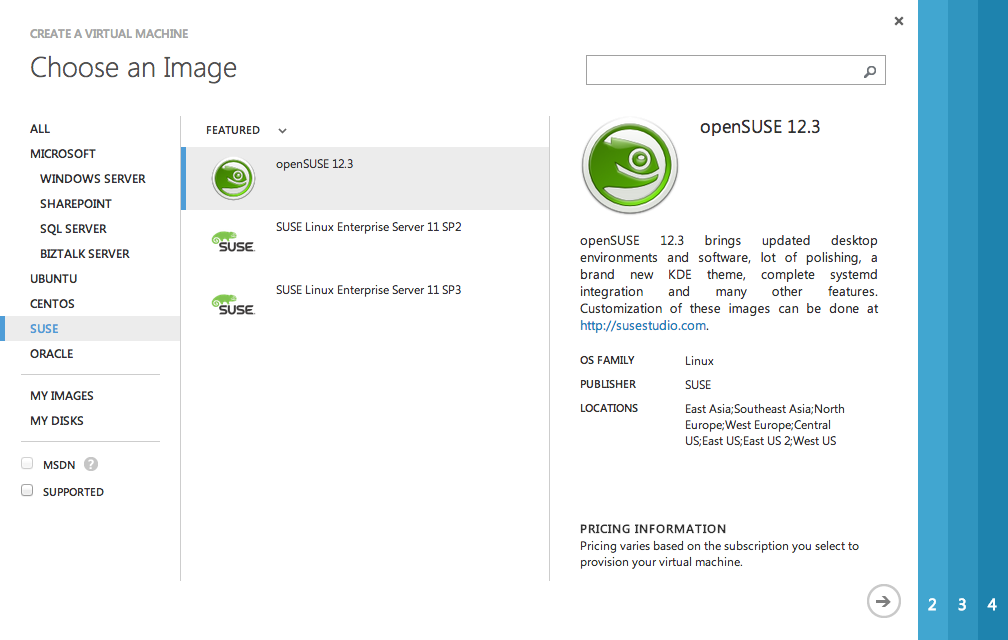
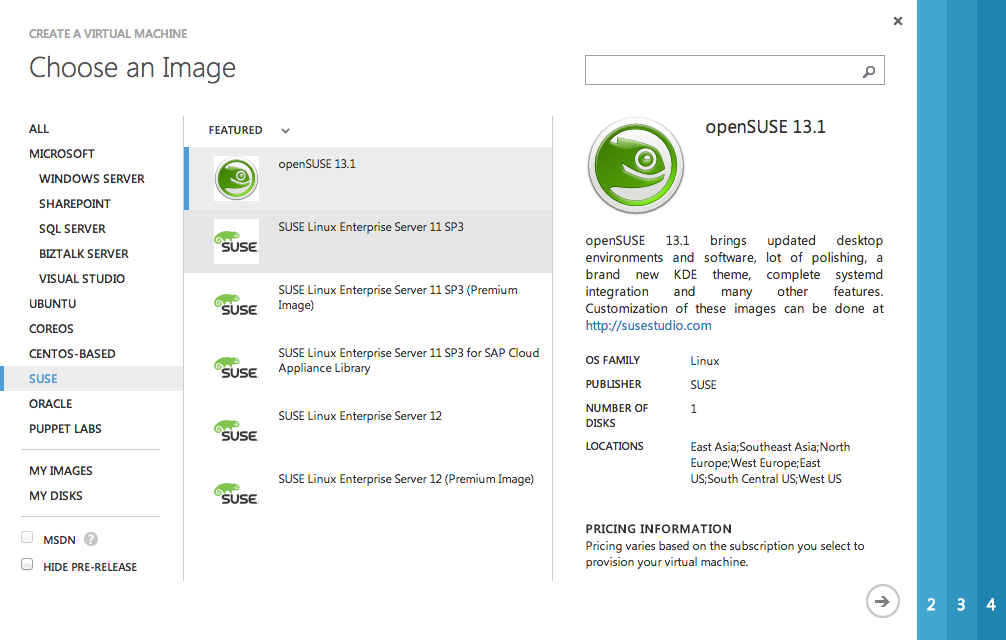
P1 updates

diff --git a/PracticalOne.md b/PracticalOne.md
@@ -17,8 +17,6 @@ In this practical session, you will:
 
 - Familiarise yourself with the Windows Azure management portal
 - Create Linux virtual machines (VMs) in Windows Azure
-- Install and configure an Apache web server with MySQL 
-- Install and configure Drupal CMS
 
 <a name="Prerequisites" />
 ### Prerequisites ###
@@ -34,10 +32,6 @@ In this practical session, you will:
 This practical session includes the following exercises:
 
 1. [Creating a Linux Virtual Machine in Windows Azure](#Exercise1)
-
-1. [Installing and Configuring the Virtual Machine](#Exercise2)
-
-1. [Installing and Configuring Drupal](#Exercise3)
 
 
 ---
@@ -57,7 +51,7 @@ In this exercise, you will learn how to provision a Linux Virtual Machine in the
 
 	_Creating a new Virtual Machine_
  
-1. In the **Virtual Machine operating system selection** page, click **SUSE** on the left menu and select the **openSUSE 12.3** OS image from the list. Click the arrow to continue.	
+1. In the **Virtual Machine operating system selection** page, click **SUSE** on the left menu and select the **openSUSE 13.1** OS image from the list. Click the arrow to continue.	
 
 	![Selecting openSUSE from the image list](Images/creating-a-vm-suse.png?raw=true)	
 	 
@@ -69,9 +63,9 @@ In this exercise, you will learn how to provision a Linux Virtual Machine in the
    
    Provide a password for the **New Password** and **Confirm Password** fields.
    
-   Lastly, set the Virtual Machine **Size** to _Small_ and click **Next** to continue.
+   Lastly, set the Virtual Machine **Size** to _A1_ and click **Next** to continue.
    
-   >**Important:** It is not possible to recover or resetthe username and password for your Virtual Machine, so it is important you make a note of these in a safe place!
+   >**Important:** It is not possible to recover or reset the username and password for your Virtual Machine, so it is important you make a note of these in a safe place!
 
 	![Configuring a Custom Virtual Machine](Images/creating-a-vm-configuration.png?raw=true)	
 	 
@@ -79,7 +73,7 @@ In this exercise, you will learn how to provision a Linux Virtual Machine in the
  
 	>**Note:** It is suggested to use secure passwords for admin users, as Windows Azure virtual machines could be accessible from the Internet knowing just their DNS.
 
-	>You can also read this document on the Microsoft Security website that will help you select a secure password:  [http://www.microsoft.com/security/online-privacy/passwords-create.aspx](http://www.microsoft.com/security/online-privacy/passwords-create.aspx)
+	>You can also read this document on the Microsoft Security website that will help you select a secure password:  [https://www.microsoft.com/security/pc-security/password-checker.aspx](https://www.microsoft.com/security/pc-security/password-checker.aspx)
 	
  
 1. Under **Cloud Service** page, select **Create new cloud service**.
@@ -87,10 +81,6 @@ In this exercise, you will learn how to provision a Linux Virtual Machine in the
    Under **Cloud Service DNS Name** enter a unique **DNS Name**.
 
    Select **Northern Europe** as your **Region/Affinity group/Virtual Network**.
-
-   Under **Storage Account** select **csc8110[number]** where *[number]* is the number associated with your account (e.g. if you log in using *"students-one"*, select storage account *"csc8110one"*.
-
-   Click the **right arrow** to continue. 
 
 	![Configuring a Custom VM, VM Mode](Images/creating-a-vm-vm-mode.png?raw=true)
 	 
@@ -100,19 +90,13 @@ In this exercise, you will learn how to provision a Linux Virtual Machine in the
     
 1. Now, you will create the endpoints required to manage the Virtual Machine. By default, **SSH** access is enabled on **TCP** port **22**.
 
-   ![Default endpoint configuration for a Virutal Machine](Images/adding-a-new-endpoint-sshonly.png?raw=true "Adding a new Endpoint")
-
-	_Default endpoint configuration for a Virutal Machine_
-
    You must also add an endpoint to allow **HTTP** access on **TCP** port **80**. In the **Enter or select a value** input type **HTTP**, select **TCP** as the protocol, and port **80** as both **Public Port** and **Private Port**.
 
    ![Adding an HTTP endpoint to a Virtual Machine](Images/adding-a-new-endpoint-http.png?raw=true "Adding a new Endpoint")
 
 	_Adding an HTTP endpoint to a Virtual Machine_
 	
-	> **Note:** This endpoint enables the port 80 that will be used by the Apache Server in the following tasks.   
-
-1. Click the **tick** button to create your new Virtual Machine. In the **Virtual Machines** section of the Azure portal, you will see the Virtual Machine you created with a _provisioning_ status. Wait until it changes to _Running_ in order to continue with the following step.
+1. Click the **next** button followed by the **tick** button on the next dialog to create your new Virtual Machine. In the **Virtual Machines** section of the Azure portal, you will see the Virtual Machine you created with a _provisioning_ status. Wait until it changes to _Running_ in order to continue with the following step.
 
 	![Creating Linux VM](Images/creating-linux-vm.png?raw=true)
 	 
@@ -160,189 +144,6 @@ Now that you have provisioned and configured a Linux Virtual Machine, you will c
 
 ---
 
-<a name="Exercise2" />
-### Exercise 2: Installing and Configuring the Virtual Machine ###
-
-In this exercise, you will learn how to install and configure a Web Server in the Linux Virtual Machine by using a SSH client. First, you will install the Apache Web server and the MySQL database server. Then, you will configure the Virtual Machine and create an example database. 
-
-<a name="Ex2Task1" />
-#### Task 1 - Installing and Configuring Apache and MySQL ####
-
-In this task, you will install and configure an Apache HTTP Server and MySQL Database Management System.
-
-1. In the terminal, execute the following commands to install the required packages.
-
-	````Linux
-	zypper install -t pattern lamp_server
-	````
-
-	>**Note**: If you get the following prompt "Do you want to reject the key, trust temporarily, or trust always? [r/t/a/?]", press **A** and then **Enter**. Pattern Lamp server installs only the needed packages for Lamp server.
-
-1. Install the following packages in order to run PHP, MySQL (MariaDB distribution) and Apache2 in openSUSE.
-
-	````Linux
-	zypper install apache2 apache2-doc apache2-mod_php5 apache2-example-pages mariadb php5-gd php-db php5-mysql php5-json php5-dom php5-mbstring 
-	````
-
-1. In order to start MySQL service, execute the following commands.
-
-	````Linux
-	systemctl enable mysql.service 
-	systemctl start mysql.service
-	````
-
-1. Execute the following commands in order to start Apache too.
-
-	````Linux
-	systemctl enable apache2.service
-	systemctl start apache2.service
-	````
-
-	![Starting Apache and MySQL service](Images/starting-apache-and-mysql-service.png?raw=true "Starting Apache and MySQL service")
-
-	_Starting Apache and MySQL service_
-
-
-#### Task 2 - Validating Apache and MySQL are running ####
-
-In this task you will check the status of MySQL and Apache service.
-
-1. If not open, open SSL client and connect to the Virtual Machine
-
-1. Run the following command to check MySQL Service status
-	
-	````Linux
-	service mysql status 
-	````
-
-	![MySQL Service Status](Images/mysql-service-status.png?raw=true "MySQL Service Status")
-
-	_MySQL Service Status_
-
-1. Run the following command to check Apache Service status
-	
-	````Linux
-	service apache2 status 
-	````
-
-	![Apache Server Status](Images/apache-server-status.png?raw=true "Apache Server Status")
-
-	_Apache Server Status_
-
-1. Open **Internet Explorer** and browse the **DNS name** of the Virtual Machine to ensure apache is accessible through the Web.
-	
-	![Browser checking status](Images/browser-checking-status.png?raw=true "Browser checking status")
-
-	_Apache working_
-
----
-
-<a name="Exercise3" />
-### Exercise 3 - Installing and Configuring Drupal ###
-
-In this exercise, you will install and configure the Drupal CMS in the Linux virtual machine. At the end of the exercise, you will be able to host a Drupal CMS website. 
-
->**Note:** Before starting this exercise, make sure you have completed Exercise 2.
-
-<a name="Ex3Task1" />
-#### Task 1 - Installing and Configuring Drupal ####
-
-In this task, you will install and configure a Drupal portal on your Windows Azure Linux Virtual Machine. Additionally, you will create an empty database to be used by Drupal CMS.
-
-1. Open the root websites folder and create a folder named **Drupal** by executing the following.
-
-	````Linux
-	cd /srv/www/htdocs
-	mkdir drupal
-	cd drupal
-	````
-
-1.	Execute the following command to install **wget**. Wget is a command line tool to retrieve files using HTTP, HTTPS and FTP.
-	
-	````Bash
-	zypper install wget
-	````
-
-1. Download and extract **Drupal**.
-
-	````Linux
-	wget http://drupal.org/files/projects/drupal-7.22.tar.gz
-	tar -xzf drupal-7.22.tar.gz --strip-components=1 
-	````
-
-	![Downloading Drupal](Images/downloading-drupal.png?raw=true)
-
-	_Downloading Drupal_
-
-1. Copy the **default.settings.php** file, located in the **sites/default** directory, and rename the copied file to **settings.php**. Additionally, give the web server write privileges to the configuration file.
-
-	````Linux
-	cp sites/default/default.settings.php sites/default/settings.php
-	chmod a+w sites/default/settings.php
-	chmod a+w sites/default
-	````
-
-	![Creating the configuration file and granting permissions](Images/creating-the-configuration-file-and-granting.png?raw=true)
-
-	_Creating the configuration file and granting permissions_
-
-1. To complete the installation, create an empty database for **Drupal** in **MySQL**. Execute the following:
-
-	````Linux
-	mysqladmin create drupaldb
-	````
-
-1. Execute the following command to access the MySQL prompt.
-
-	````Linux
-	mysql
-	````
-
-   At the MySQL prompt execute the following query. Replace **username** and **password** with your Virtual machine user account. This command grants permissions for your user in MySQL.
-
-	````Linux
-	GRANT SELECT, INSERT, UPDATE, DELETE, CREATE, DROP, INDEX, ALTER, CREATE TEMPORARY TABLES, LOCK TABLES	
-	ON drupaldb.*
-	TO 'username'@'localhost' IDENTIFIED BY 'password';
-	````
-
-	![Granting permissions in MySQL](Images/granting-permissions-in-mysql.png?raw=true)
-
-	_Granting permissions in MySQL_
-	
-   Exit the MySQL command prompt by typing the following command.
-
-	````Linux
-	exit
-	````
-	
-1. Open Internet Explorer and locate the virtual machine DNS Name. Browse to _http://[YOUR-DNS-URL]/drupal_ to complete Drupal installation.
- 
-	![Opening Drupal for the first time](Images/opening-drupal-for-the-first-time.png?raw=true)
-
-	_Opening Drupal for the first time_ 
-
-	>**Note:**  You can find more details about Drupal configuration in the official documentation ([http://drupal.org/documentation/install/run-script](http://drupal.org/documentation/install/run-script)).
-
-1. In the Set up Database page, enter the name of the database you have created in Task 1 (‘drupaldb’), and the **username** and **password**. 
-	 
-	![Opening Drupal for the first time(2)](Images/opening-drupal-for-the-first-time2.png?raw=true)
-
-	_Opening Drupal for the first time_
- 
-1. In the **Configure site** website, enter a user name, an e-mail address and a password to create a new **site maintenance account**.
-
-	![Configuring a Drupal account](Images/configuring-a-drupal-account.png?raw=true)
-	 
-	_Configuring a Drupal account_
-
-1. Click the **Visit your new site** link to verify that the Drupal home page loads. 
-
-	![Drupal CMS home page](Images/drupal-cms-home-page.png?raw=true)
-	 
-	_Drupal CMS home page_
-	
----
 
 <a name='Shutdown' />
 ## Shutting down your VM ##
@@ -360,6 +161,6 @@ In this practical session, you have learnt how to use the Windows Azure IaaS pla
 
 <a name='Acknowledgements' />
 ## Acknowledgements ##
-Copyright 2013 Matthew Forshaw, Newcastle University (m.j.forshaw@ncl.ac.uk)
+Copyright 2014 Matthew Forshaw, Newcastle University (matthew.forshaw@ncl.ac.uk)
 
-Copyright 2012 Microsoft. This course material is adapted from Microsoft training material licensed under the terms of the Apache License, Version 2.0. The terms of this license can be found in http://www.apache.org/licenses/LICENSE-2.0.
+Copyright 2014 Microsoft. This course material is adapted from Microsoft training material licensed under the terms of the Apache License, Version 2.0. The terms of this license can be found in http://www.apache.org/licenses/LICENSE-2.0.
